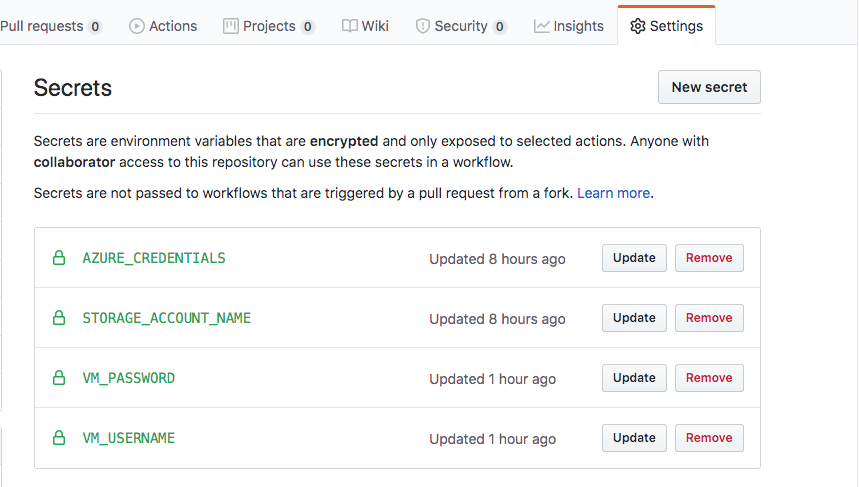
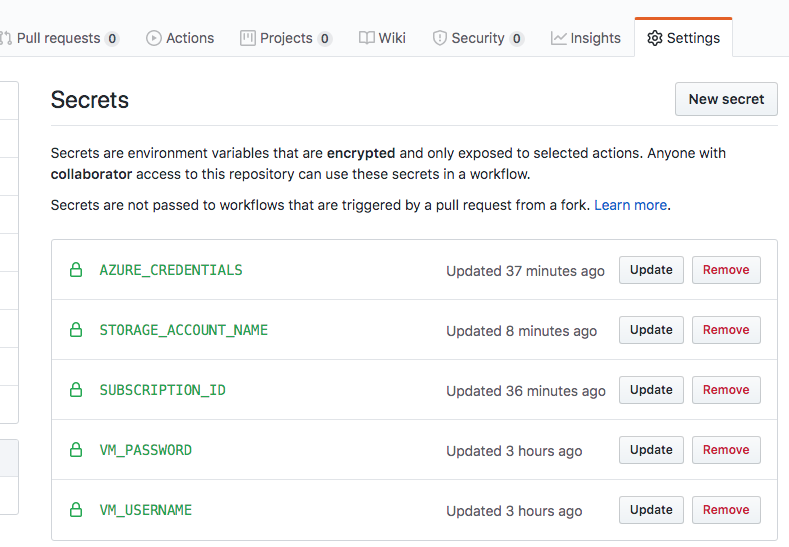
Update secrets instructions

diff --git a/readme.md b/readme.md
@@ -21,7 +21,7 @@ There are a few different tools required to fully automate this process. If you 
 
 **The Repository**
 
-The source code repository for this workflow will contain a set of bash scripts and the config files required for configuring the builder and nested VMs. The *.github/workflows/build-hd.yaml* contains the workflow required to run all the scripts provided in the repository.
+The source code repository for this workflow will contain a set of bash scripts and the config files required for configuring the builder and nested VMs. The *.github/workflows/main.yaml* contains the workflow required to run all the scripts provided in the repository.
 
 **The Builder VM**
 
@@ -49,6 +49,8 @@ Please complete the following  steps:
   * *VM_PASSWORD* will be used as the password for all VMs created in this workflow
 
   * *VM_USERNAME* will be used as the username for all VMs created in this workflow
+
+  * *SUBSCRIPTION_ID* is not used directly in the workflow but having it saved as a secret will cause it to be redacted in the logs. 
 
 ![Github Secrets](images/github-actions-secrets.png) 
 
